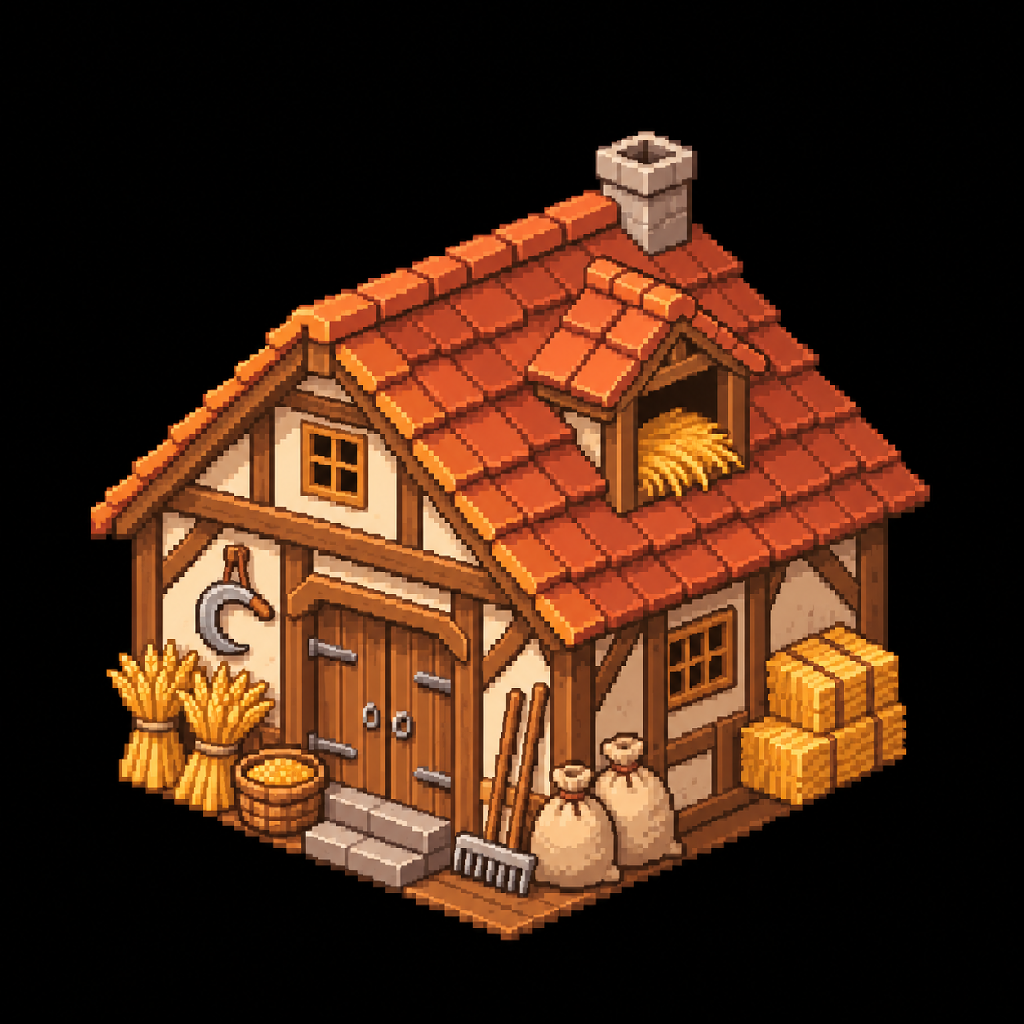
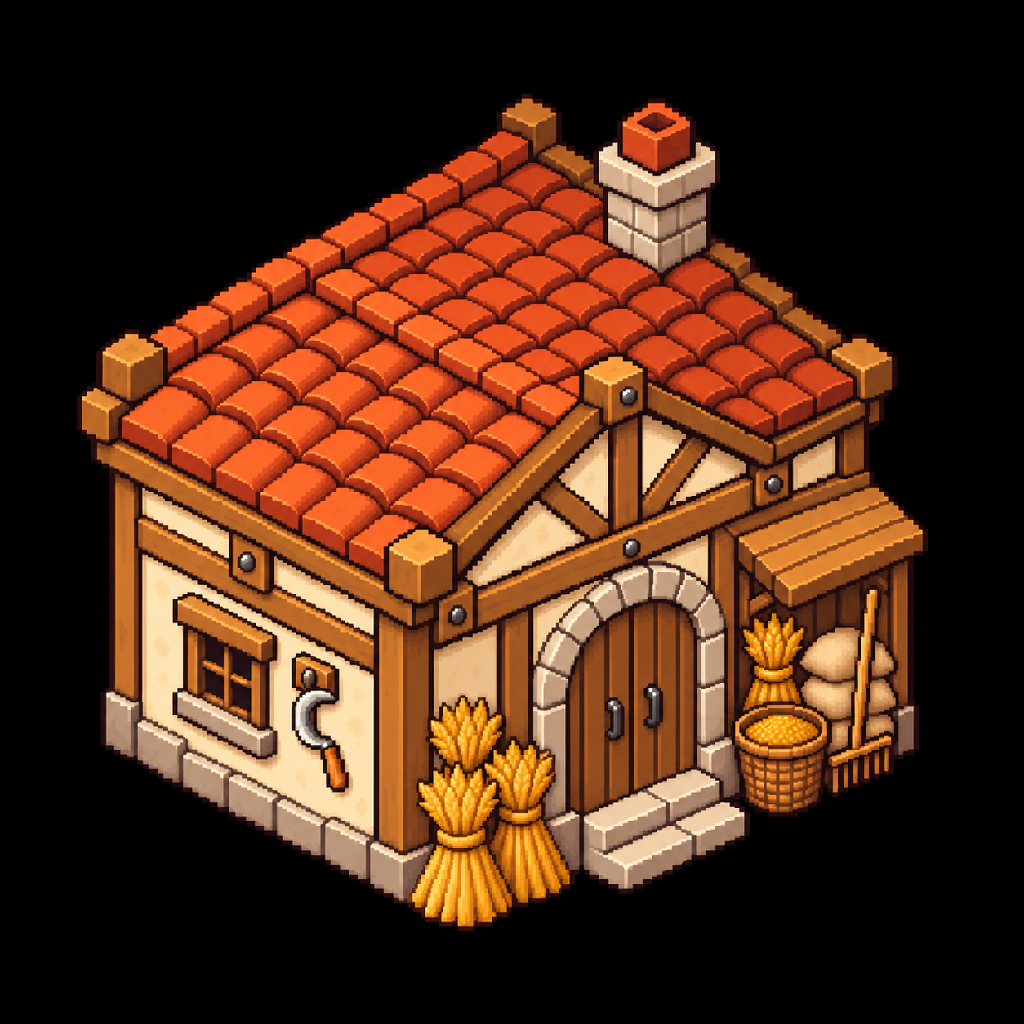
feat(art): house in the middle of its plot, door on the right, paved built plots
Owner feedback on the first isometric sample (2026-11-06):
- The building stands in the middle of its plot (BUILDING_FOOT_OFFSET 0)
  and its troops gather on the strip in front of its door, the east
  edge of the plot (DEPLOY_BOX x 18..30); spec and ART_STYLE follow.
- The main door is on the right (south-east) wall; no deck under the house.
- A plot with a building on it is a stone-paved courtyard.
Codex redrew the Reapers building (v1 kept as v1-source.png) and drew the
paved built plot; the comparison sheet shows them tiled at zoom 3. The
samples still wait for approval; nothing new is wired into the game.

diff --git a/src/data/boardGeometry.ts b/src/data/boardGeometry.ts
@@ -19,13 +19,17 @@ export const WALL_Y = 176;
 export const cells = (n: number): number => n * PLOT;
 
 /**
- * Chân công trình (và Ngai) lệch khỏi tâm ô về phía tây world; nửa đông của ô là khu tập kết lính.
- * Nhà rộng 32 px nên thân ngang chiếm [−30, +2] quanh tâm ô.
+ * Chân công trình (và Ngai) đứng giữa ô (chủ dự án chốt 06/11/2026: "nhà đặt ở giữa ô đất").
+ * Nhà rộng 32 px nên thân ngang chiếm [−16, +16] quanh tâm ô.
  */
-export const BUILDING_FOOT_OFFSET = { x: -14, y: 0 } as const;
+export const BUILDING_FOOT_OFFSET = { x: 0, y: 0 } as const;
 
-/** Khu tập kết lính của một ô, quanh tâm ô (world px): x ∈ [x0, x1], y ∈ [y0, y1]. */
-export const DEPLOY_BOX = { x0: 4, x1: 28, y0: -24, y1: 24 } as const;
+/**
+ * Khu tập kết lính của một ô, quanh tâm ô (world px): x ∈ [x0, x1], y ∈ [y0, y1]. Là dải đất
+ * TRƯỚC CỬA nhà: cửa chính ở mặt tường hướng đông world (mặt phải khi vẽ isometric), nên dải nằm
+ * giữa mép đông của nhà (+16) và mép đông của ô (+32).
+ */
+export const DEPLOY_BOX = { x0: 18, x1: 30, y0: -24, y1: 24 } as const;
 
 /**
  * Các bảng số của spec gốc (§6, §7.3) viết cho ô 32 px. Mọi đại lượng px/tick (tốc độ lính, tốc độ

diff --git a/src/game/battle/deployment.ts b/src/game/battle/deployment.ts
@@ -1,6 +1,6 @@
 /**
  * Khu tập kết lính của mỗi ô (spec 06/11/2026, quyết định C): lính của một công trình xuất hiện và
- * đứng sẵn trong `DEPLOY_BOX` ở nửa đông của ô, không còn xếp vòng quanh tâm ô. Lưới xác định theo
+ * đứng sẵn trong `DEPLOY_BOX`, dải đất trước cửa nhà ở phía đông ô, không còn xếp vòng quanh tâm ô. Lưới xác định theo
  * hàng rồi cột; đông quá thì các ô lưới nhỏ lại và thân có thể chồng nhau (separation xử lý tiếp).
  * Chỉ dùng + − × ÷, Math.sqrt/ceil/floor.
  */

diff --git a/src/game/battle/world.ts b/src/game/battle/world.ts
@@ -425,7 +425,7 @@ export const plotCenter = (plot: number): { x: number; y: number } => {
 
 /**
  * Chân (vị trí) của công trình hay Ngai đứng trên ô `plot`: tâm ô lệch `BUILDING_FOOT_OFFSET` về phía
- * tây, để nửa đông của ô là khu tập kết lính (spec 06/11/2026). Renderer neo sprite đúng điểm này.
+ * (hiện là 0: nhà đứng giữa ô, chủ dự án chốt 06/11/2026). Renderer neo sprite đúng điểm này.
  */
 export const structureFoot = (plot: number): { x: number; y: number } => {
   const c = plotCenter(plot);

diff --git a/src/render/BoardRenderer.ts b/src/render/BoardRenderer.ts
@@ -48,7 +48,7 @@ export const BUILDING_FOOT_DY = 16;
 /** Ground layer just above the plots: the dirt deploy boxes. */
 const BOX_DEPTH = 1.5;
 
-/** Where a building on `plot` is drawn: its structure foot (west half of the plot), lowered by `BUILDING_FOOT_DY`. */
+/** Where a building on `plot` is drawn: its structure foot (the plot centre), lowered by `BUILDING_FOOT_DY`. */
 export const buildingFoot = (plot: number): { x: number; y: number } => {
   const f = structureFoot(plot);
   return { x: f.x, y: f.y + BUILDING_FOOT_DY };

diff --git a/src/game/battle/deployment.test.ts b/src/game/battle/deployment.test.ts
@@ -79,7 +79,7 @@ describe('battles deploy into the boxes', () => {
     }
   });
 
-  it('puts every structure at its west-shifted foot, clear of its box', () => {
+  it('puts every structure at its foot (the plot centre), clear of its box', () => {
     const w = createBattle(battleSetup({ structures: [structure(7)] }));
     const id = Array.from({ length: w.count }, (_, i) => i).find((i) => w.kind[i] === KIND_STRUCTURE)!;
     expect([w.x[id], w.y[id]]).toEqual([plotCenter(7).x + BUILDING_FOOT_OFFSET.x, plotCenter(7).y]);

diff --git a/docs/art-review/g3e/buildings/make_prompts.py b/docs/art-review/g3e/buildings/make_prompts.py
@@ -82,19 +82,30 @@ ISO_DIR = 'docs/art-review/iso-board'
 
 # The sample gate of 2026-11-06: one building and one ground tile, approved before anything else is drawn.
 ISO_SAMPLES = [
+    # v2 (owner feedback 2026-11-06): main door on the RIGHT wall, house in the middle of its plot.
     ('sample-building', 'Đội Thợ Gặt (the reapers\' farmhouse barn, a troop building of the Wheat king), seen in 2:1 isometric',
      'The same building as the attached approved reference, redrawn in isometric: a farmhouse barn with a clay-tile '
-     'roof seen from above, cream plaster and dark timber walls, a big sickle hung beside the door on the left '
-     '(south-west) wall, wheat sheaves, grain baskets, rakes and sacks around the door, a hayloft window. Its '
-     'footprint is one small diamond. Theme: farm kingdom, warm bright wood, golden straw, clay tiles.'),
+     'roof seen from above, cream plaster and dark timber walls, a hayloft window. The MAIN DOOR (big double wooden '
+     'door with a small stone step) is on the RIGHT wall (the wall facing south-east, on the right of the image); the '
+     'left wall has only a window and a big sickle hung on it. Wheat sheaves, grain baskets, rakes and sacks stand '
+     'beside the door on the right wall. No wooden deck or platform under the house: the walls stand directly on '
+     'the ground. The house stands in the MIDDLE of its square plot; its footprint is one small diamond. '
+     'Theme: farm kingdom, warm bright wood, golden straw, clay tiles.'),
     ('sample-plot', 'one open farm plot of the Wheat king, a single flat 2:1 isometric ground tile',
      'A diamond of freshly tilled brown soil in a few diagonal furrows, framed by a thin rim of short grass and '
      'four small wooden fence posts at the diamond corners; the two front edges show a few pixels of earth '
      'thickness. Flat ground only: no building, no crops standing tall. Theme: farm kingdom, warm earth and grass.'),
+    # added 2026-11-06 (owner: a plot with a building on it is paved with stone)
+    ('sample-plot-built', 'one built plot of the Wheat king (the ground under a building), a single flat 2:1 isometric ground tile',
+     'The SAME diamond tile as an open farm plot (same size, same thin rim of short grass, same four small wooden '
+     'fence posts at the diamond corners, same few pixels of earth thickness on the two front edges), but the '
+     'whole inside is a COURTYARD PAVED WITH STONE: warm grey and sandy flagstones and a few bricks laid along the '
+     'two diagonal axes, small gravel in the joints, a little moss. Flat ground only: no building, no props. '
+     'Theme: farm kingdom, warm stone, earth and grass.'),
 ]
 
 ISO_FOOTER = """
-YÊU CẦU SẢN XUẤT (ghi đè phần "transparent background" ở trên): ảnh 1024×1024, nền ĐEN PHẲNG #000000 hoàn toàn (không quầng sáng, không bóng đổ lên nền, không nền đất/cỏ ngoài chính vật thể). MỘT vật thể duy nhất ở giữa ảnh. Công trình: hình thoi chân rộng khoảng 440 px, đáy hình thoi chân ở khoảng y = 900. Ô đất: hình thoi rộng khoảng 900 px, cao khoảng 450 px (đúng 2:1), nằm giữa ảnh. "Pixel" lớn khoảng 7×7 điểm ảnh, cạnh thoi là bậc pixel 2 ngang – 1 dọc.
+YÊU CẦU SẢN XUẤT (ghi đè phần "transparent background" ở trên): ảnh 1024×1024, nền ĐEN PHẲNG #000000 hoàn toàn (không quầng sáng, không bóng đổ lên nền, không nền đất/cỏ ngoài chính vật thể). MỘT vật thể duy nhất ở giữa ảnh. Công trình: hình thoi chân rộng khoảng 440 px, đáy hình thoi chân ở khoảng y = 900, đứng thẳng trên nền đen (không bệ, không sàn gỗ). Ô đất: hình thoi rộng khoảng 900 px, cao khoảng 450 px (đúng 2:1), nằm giữa ảnh. "Pixel" lớn khoảng 7×7 điểm ảnh, cạnh thoi là bậc pixel 2 ngang – 1 dọc.
 Khi xong, in đường dẫn file đã lưu và kích thước ảnh.
 """
 
@@ -111,10 +122,12 @@ def build_iso_prompt(out, name, desc, template=None):
     ) + body + ISO_FOOTER
 
 
-def main_iso_sample():
+def main_iso_sample(only=None):
     template = iso_template()
     runner = ['#!/bin/bash', f'cd "{ROOT.as_posix()}"']
     for ident, name, desc in ISO_SAMPLES:
+        if only and ident not in only:
+            continue
         d = ROOT / ISO_DIR / ident
         d.mkdir(parents=True, exist_ok=True)
         out = (d / 'source.png').relative_to(ROOT).as_posix()
@@ -138,7 +151,7 @@ def build_prompt(out, name, desc, theme, template=None):
 
 def main(group, only=None):
     if group == 'iso-sample':
-        main_iso_sample()
+        main_iso_sample(only)
         return
     cfg = GROUPS[group]
     template = style_template()

diff --git a/docs/art-review/iso-board/make_comparison.py b/docs/art-review/iso-board/make_comparison.py
@@ -42,11 +42,12 @@ def font(size: int) -> ImageFont.ImageFont:
 def main() -> None:
     building = key_black(Image.open(D / 'sample-building/source.png'))
     plot = key_black(Image.open(D / 'sample-plot/source.png'))
+    built = key_black(Image.open(D / 'sample-plot-built/source.png'))
     sheet = Image.new('RGBA', (1500, 1300), BG)
     draw = ImageDraw.Draw(sheet)
     title, label = font(30), font(20)
 
-    draw.text((30, 20), 'Mẫu isometric 2:1 — chờ chủ dự án duyệt (06/11/2026)', fill=INK, font=title)
+    draw.text((30, 20), 'Mẫu isometric 2:1, bản 2 — chờ chủ dự án duyệt (06/11/2026)', fill=INK, font=title)
 
     # Row 1: what the game uses now (front view, 45 degrees)
     draw.text((30, 80), 'Hiện tại (chính diện 45°)', fill=INK, font=label)
@@ -63,27 +64,33 @@ def main() -> None:
     # Row 2: the isometric samples
     draw.text((30, 460), 'Mẫu isometric mới (ảnh nguồn thu nhỏ)', fill=INK, font=label)
     b2 = fit(building, h=300)
-    p2 = fit(plot, w=420)
     sheet.alpha_composite(b2, (30, 495))
-    draw.text((30, 805), 'Đội Thợ Gặt — isometric', fill=INK, font=label)
-    sheet.alpha_composite(p2, (30 + b2.width + 50, 495 + (300 - p2.height) // 2))
-    draw.text((30 + b2.width + 50, 805), 'Ô đất mở — isometric', fill=INK, font=label)
+    draw.text((30, 805), 'Thợ Gặt (cửa bên phải)', fill=INK, font=label)
+    x = 30 + b2.width + 40
+    for img, cap in ((plot, 'Ô đất mở'), (built, 'Ô đã xây (sân lát đá)')):
+        p2 = fit(img, w=400)
+        sheet.alpha_composite(p2, (x, 495 + (300 - p2.height) // 2))
+        draw.text((x, 805), cap, fill=INK, font=label)
+        x += 400 + 30
 
     # Row 3: a 3x3 board at zoom 3 — plot 64 world px -> diamond 192x96, building 32 world px wide -> 96 px
-    draw.text((30, 860), 'Thử ghép bàn 3×3 ở zoom 3 (nhà đứng nửa tây ô, nửa đông để lính)', fill=INK, font=label)
+    draw.text((30, 860), 'Thử ghép bàn 3×3 ở zoom 3 (nhà giữa ô lát đá, cửa bên phải, lính đứng trước cửa)', fill=INK, font=label)
     tw, th = 192, 96
     tile = fit(plot, w=tw)
+    paved = fit(built, w=tw)
     ox, top = 750, 930
     centre = lambda col, row: (ox + (col - row) * tw // 2, top + th // 2 + (col + row) * th // 2)
+    houses = ((1, 1), (0, 2), (2, 0))
     for row in range(3):
         for col in range(3):
             cx, cy = centre(col, row)
-            sheet.alpha_composite(tile, (cx - tile.width // 2, cy - th // 2))
+            t = paved if (col, row) in houses else tile
+            sheet.alpha_composite(t, (cx - t.width // 2, cy - th // 2))
     house = fit(building, w=96)
-    for col, row in ((1, 1), (0, 2), (2, 0)):
+    for col, row in houses:
         cx, cy = centre(col, row)
-        # foot 14 world px west of the plot centre: in 2:1 iso at zoom 3 that is (-21, -10) screen px
-        fx, fy = cx - 21, cy - 10 + 24
+        # house in the middle of the plot: its 32x32 world footprint's bottom corner is 8 iso px below the centre (x3)
+        fx, fy = cx, cy + 24
         sheet.alpha_composite(house, (fx - house.width // 2, fy - house.height))
 
     out = D / 'sample-comparison.png'

diff --git a/tools/test_art_prompts.py b/tools/test_art_prompts.py
@@ -70,7 +70,12 @@ class IsoSamplePromptGateTest(unittest.TestCase):
         self.assertIn('STRICT straight-on FRONT VIEW', mp.style_template())
 
     def test_sample_prompts_read_the_doc_attach_the_reference_and_say_so(self):
-        self.assertEqual([s[0] for s in mp.ISO_SAMPLES], ['sample-building', 'sample-plot'])
+        self.assertEqual([s[0] for s in mp.ISO_SAMPLES], ['sample-building', 'sample-plot', 'sample-plot-built'])
+        building = dict((i, d) for i, _, d in mp.ISO_SAMPLES)['sample-building']
+        self.assertIn('MAIN DOOR', building)
+        self.assertIn('RIGHT wall', building)
+        self.assertIn('MIDDLE of its square plot', building)
+        self.assertIn('PAVED WITH STONE', dict((i, d) for i, _, d in mp.ISO_SAMPLES)['sample-plot-built'])
         for ident, name, desc in mp.ISO_SAMPLES:
             p = mp.build_iso_prompt(f'x/{ident}/source.png', name, desc)
             self.assertIn('docs/ART_STYLE.md', p, ident)
@@ -81,11 +86,15 @@ class IsoSamplePromptGateTest(unittest.TestCase):
             self.assertIn(name, p, ident)
             self.assertNotIn('[subject]', p, ident)
 
-    def test_sample_mode_writes_exactly_the_two_samples_and_attaches_the_reference(self):
+    def test_sample_mode_writes_only_the_samples_and_attaches_the_reference(self):
         mp.main('iso-sample')
         runner = (ROOT / '.superpowers/b-iso-sample.sh').read_text(encoding='utf-8')
+        self.assertEqual(runner.count('codex exec'), 3)
+        self.assertEqual(runner.count(f'-i {mp.REFERENCE}'), 3)
+        mp.main('iso-sample', ['sample-building', 'sample-plot-built'])
+        runner = (ROOT / '.superpowers/b-iso-sample.sh').read_text(encoding='utf-8')
         self.assertEqual(runner.count('codex exec'), 2)
-        self.assertEqual(runner.count(f'-i {mp.REFERENCE}'), 2)
+        self.assertNotIn('sample-plot/prompt.md', runner)
         for ident, _, _ in mp.ISO_SAMPLES:
             self.assertTrue((ROOT / 'docs/art-review/iso-board' / ident / 'prompt.md').exists(), ident)
 

diff --git a/docs/art-review/iso-board/sample-plot-built/prompt.md b/docs/art-review/iso-board/sample-plot-built/prompt.md
@@ -1,0 +1,21 @@
+Tạo MỘT ảnh pixel art bằng công cụ tạo ảnh (imagegen) và lưu đúng một file PNG vào `docs/art-review/iso-board/sample-plot-built/source.png` (sao chép vào đó nếu ảnh tạo ra nằm ngoài repo; tạo thư mục nếu chưa có). Không sửa file khác, không commit, không chạy node/npm.
+
+BẮT BUỘC TRƯỚC KHI VẼ: mở và đọc `docs/ART_STYLE.md` — mục "Góc nhìn" (khung BẮT BUỘC, mục con "Isometric (trục đo 2.5D) cho sprite thế giới", khối "Prompt isometric dùng lại", "Kiểm trước khi duyệt (isometric)") và mục "Quy tắc vẽ". Ảnh tham chiếu đã duyệt được đính kèm (`docs/art-review/style-references/harvester-house-front-approved.png`): CHỈ lấy phong cách, bảng màu, chất liệu và cỡ cụm pixel từ đó, KHÔNG lấy góc nhìn chính diện của nó (góc nhìn là isometric 2:1); KHÔNG sao chép nguyên hình dạng của nó cho công trình khác.
+
+Create one isolated pixel-art asset for Crowned Kingdoms: one built plot of the Wheat king (the ground under a building), a single flat 2:1 isometric ground tile.
+Use the attached approved harvester house ONLY as the style reference (materials, warm palette,
+pixel-cluster size, dark material-colored outlines, level of detail). Do NOT copy its front-facing camera.
+ISOMETRIC view, classic 2:1 pixel-art isometric (dimetric): the ground footprint is a DIAMOND twice as
+wide as it is tall; edges that run along the ground follow the two diagonal axes as clean 2-across-1-up
+pixel steps; vertical edges stay vertical; parallel lines stay parallel (no perspective).
+For a building: two walls are visible (left wall facing south-west, right wall facing south-east) and the
+roof is seen from above; its footprint is one small diamond. For a ground tile: a flat diamond seen from
+above with a few pixels of visible thickness on its two front edges.
+Upper-left lighting: the left (south-west) faces are lighter than the right (south-east) faces.
+Cozy warm medieval pixel art, crisp square pixel clusters. The SAME diamond tile as an open farm plot (same size, same thin rim of short grass, same four small wooden fence posts at the diamond corners, same few pixels of earth thickness on the two front edges), but the whole inside is a COURTYARD PAVED WITH STONE: warm grey and sandy flagstones and a few bricks laid along the two diagonal axes, small gravel in the joints, a little moss. Flat ground only: no building, no props. Theme: farm kingdom, warm stone, earth and grass.
+Whole asset visible, transparent background, padding around it.
+No people, text, labels, UI, watermark, blur, soft shadows or antialiasing.
+Concept preview only; native sprite size and pixel cleanup are a separate production step.
+
+YÊU CẦU SẢN XUẤT (ghi đè phần "transparent background" ở trên): ảnh 1024×1024, nền ĐEN PHẲNG #000000 hoàn toàn (không quầng sáng, không bóng đổ lên nền, không nền đất/cỏ ngoài chính vật thể). MỘT vật thể duy nhất ở giữa ảnh. Công trình: hình thoi chân rộng khoảng 440 px, đáy hình thoi chân ở khoảng y = 900, đứng thẳng trên nền đen (không bệ, không sàn gỗ). Ô đất: hình thoi rộng khoảng 900 px, cao khoảng 450 px (đúng 2:1), nằm giữa ảnh. "Pixel" lớn khoảng 7×7 điểm ảnh, cạnh thoi là bậc pixel 2 ngang – 1 dọc.
+Khi xong, in đường dẫn file đã lưu và kích thước ảnh.

diff --git a/docs/art-review/iso-board/sample-building/v1-prompt.md b/docs/art-review/iso-board/sample-building/v1-prompt.md
@@ -1,0 +1,21 @@
+Tạo MỘT ảnh pixel art bằng công cụ tạo ảnh (imagegen) và lưu đúng một file PNG vào `docs/art-review/iso-board/sample-building/source.png` (sao chép vào đó nếu ảnh tạo ra nằm ngoài repo; tạo thư mục nếu chưa có). Không sửa file khác, không commit, không chạy node/npm.
+
+BẮT BUỘC TRƯỚC KHI VẼ: mở và đọc `docs/ART_STYLE.md` — mục "Góc nhìn" (khung BẮT BUỘC, mục con "Isometric (trục đo 2.5D) cho sprite thế giới", khối "Prompt isometric dùng lại", "Kiểm trước khi duyệt (isometric)") và mục "Quy tắc vẽ". Ảnh tham chiếu đã duyệt được đính kèm (`docs/art-review/style-references/harvester-house-front-approved.png`): CHỈ lấy phong cách, bảng màu, chất liệu và cỡ cụm pixel từ đó, KHÔNG lấy góc nhìn chính diện của nó (góc nhìn là isometric 2:1); KHÔNG sao chép nguyên hình dạng của nó cho công trình khác.
+
+Create one isolated pixel-art asset for Crowned Kingdoms: Đội Thợ Gặt (the reapers' farmhouse barn, a troop building of the Wheat king), seen in 2:1 isometric.
+Use the attached approved harvester house ONLY as the style reference (materials, warm palette,
+pixel-cluster size, dark material-colored outlines, level of detail). Do NOT copy its front-facing camera.
+ISOMETRIC view, classic 2:1 pixel-art isometric (dimetric): the ground footprint is a DIAMOND twice as
+wide as it is tall; edges that run along the ground follow the two diagonal axes as clean 2-across-1-up
+pixel steps; vertical edges stay vertical; parallel lines stay parallel (no perspective).
+For a building: two walls are visible (left wall facing south-west, right wall facing south-east) and the
+roof is seen from above; its footprint is one small diamond. For a ground tile: a flat diamond seen from
+above with a few pixels of visible thickness on its two front edges.
+Upper-left lighting: the left (south-west) faces are lighter than the right (south-east) faces.
+Cozy warm medieval pixel art, crisp square pixel clusters. The same building as the attached approved reference, redrawn in isometric: a farmhouse barn with a clay-tile roof seen from above, cream plaster and dark timber walls, a big sickle hung beside the door on the left (south-west) wall, wheat sheaves, grain baskets, rakes and sacks around the door, a hayloft window. Its footprint is one small diamond. Theme: farm kingdom, warm bright wood, golden straw, clay tiles.
+Whole asset visible, transparent background, padding around it.
+No people, text, labels, UI, watermark, blur, soft shadows or antialiasing.
+Concept preview only; native sprite size and pixel cleanup are a separate production step.
+
+YÊU CẦU SẢN XUẤT (ghi đè phần "transparent background" ở trên): ảnh 1024×1024, nền ĐEN PHẲNG #000000 hoàn toàn (không quầng sáng, không bóng đổ lên nền, không nền đất/cỏ ngoài chính vật thể). MỘT vật thể duy nhất ở giữa ảnh. Công trình: hình thoi chân rộng khoảng 440 px, đáy hình thoi chân ở khoảng y = 900. Ô đất: hình thoi rộng khoảng 900 px, cao khoảng 450 px (đúng 2:1), nằm giữa ảnh. "Pixel" lớn khoảng 7×7 điểm ảnh, cạnh thoi là bậc pixel 2 ngang – 1 dọc.
+Khi xong, in đường dẫn file đã lưu và kích thước ảnh.

diff --git a/docs/art-review/iso-board/sample-building/prompt.md b/docs/art-review/iso-board/sample-building/prompt.md
@@ -12,10 +12,10 @@ For a building: two walls are visible (left wall facing south-west, right wall f
 roof is seen from above; its footprint is one small diamond. For a ground tile: a flat diamond seen from
 above with a few pixels of visible thickness on its two front edges.
 Upper-left lighting: the left (south-west) faces are lighter than the right (south-east) faces.
-Cozy warm medieval pixel art, crisp square pixel clusters. The same building as the attached approved reference, redrawn in isometric: a farmhouse barn with a clay-tile roof seen from above, cream plaster and dark timber walls, a big sickle hung beside the door on the left (south-west) wall, wheat sheaves, grain baskets, rakes and sacks around the door, a hayloft window. Its footprint is one small diamond. Theme: farm kingdom, warm bright wood, golden straw, clay tiles.
+Cozy warm medieval pixel art, crisp square pixel clusters. The same building as the attached approved reference, redrawn in isometric: a farmhouse barn with a clay-tile roof seen from above, cream plaster and dark timber walls, a hayloft window. The MAIN DOOR (big double wooden door with a small stone step) is on the RIGHT wall (the wall facing south-east, on the right of the image); the left wall has only a window and a big sickle hung on it. Wheat sheaves, grain baskets, rakes and sacks stand beside the door on the right wall. No wooden deck or platform under the house: the walls stand directly on the ground. The house stands in the MIDDLE of its square plot; its footprint is one small diamond. Theme: farm kingdom, warm bright wood, golden straw, clay tiles.
 Whole asset visible, transparent background, padding around it.
 No people, text, labels, UI, watermark, blur, soft shadows or antialiasing.
 Concept preview only; native sprite size and pixel cleanup are a separate production step.
 
-YÊU CẦU SẢN XUẤT (ghi đè phần "transparent background" ở trên): ảnh 1024×1024, nền ĐEN PHẲNG #000000 hoàn toàn (không quầng sáng, không bóng đổ lên nền, không nền đất/cỏ ngoài chính vật thể). MỘT vật thể duy nhất ở giữa ảnh. Công trình: hình thoi chân rộng khoảng 440 px, đáy hình thoi chân ở khoảng y = 900. Ô đất: hình thoi rộng khoảng 900 px, cao khoảng 450 px (đúng 2:1), nằm giữa ảnh. "Pixel" lớn khoảng 7×7 điểm ảnh, cạnh thoi là bậc pixel 2 ngang – 1 dọc.
+YÊU CẦU SẢN XUẤT (ghi đè phần "transparent background" ở trên): ảnh 1024×1024, nền ĐEN PHẲNG #000000 hoàn toàn (không quầng sáng, không bóng đổ lên nền, không nền đất/cỏ ngoài chính vật thể). MỘT vật thể duy nhất ở giữa ảnh. Công trình: hình thoi chân rộng khoảng 440 px, đáy hình thoi chân ở khoảng y = 900, đứng thẳng trên nền đen (không bệ, không sàn gỗ). Ô đất: hình thoi rộng khoảng 900 px, cao khoảng 450 px (đúng 2:1), nằm giữa ảnh. "Pixel" lớn khoảng 7×7 điểm ảnh, cạnh thoi là bậc pixel 2 ngang – 1 dọc.
 Khi xong, in đường dẫn file đã lưu và kích thước ảnh.
